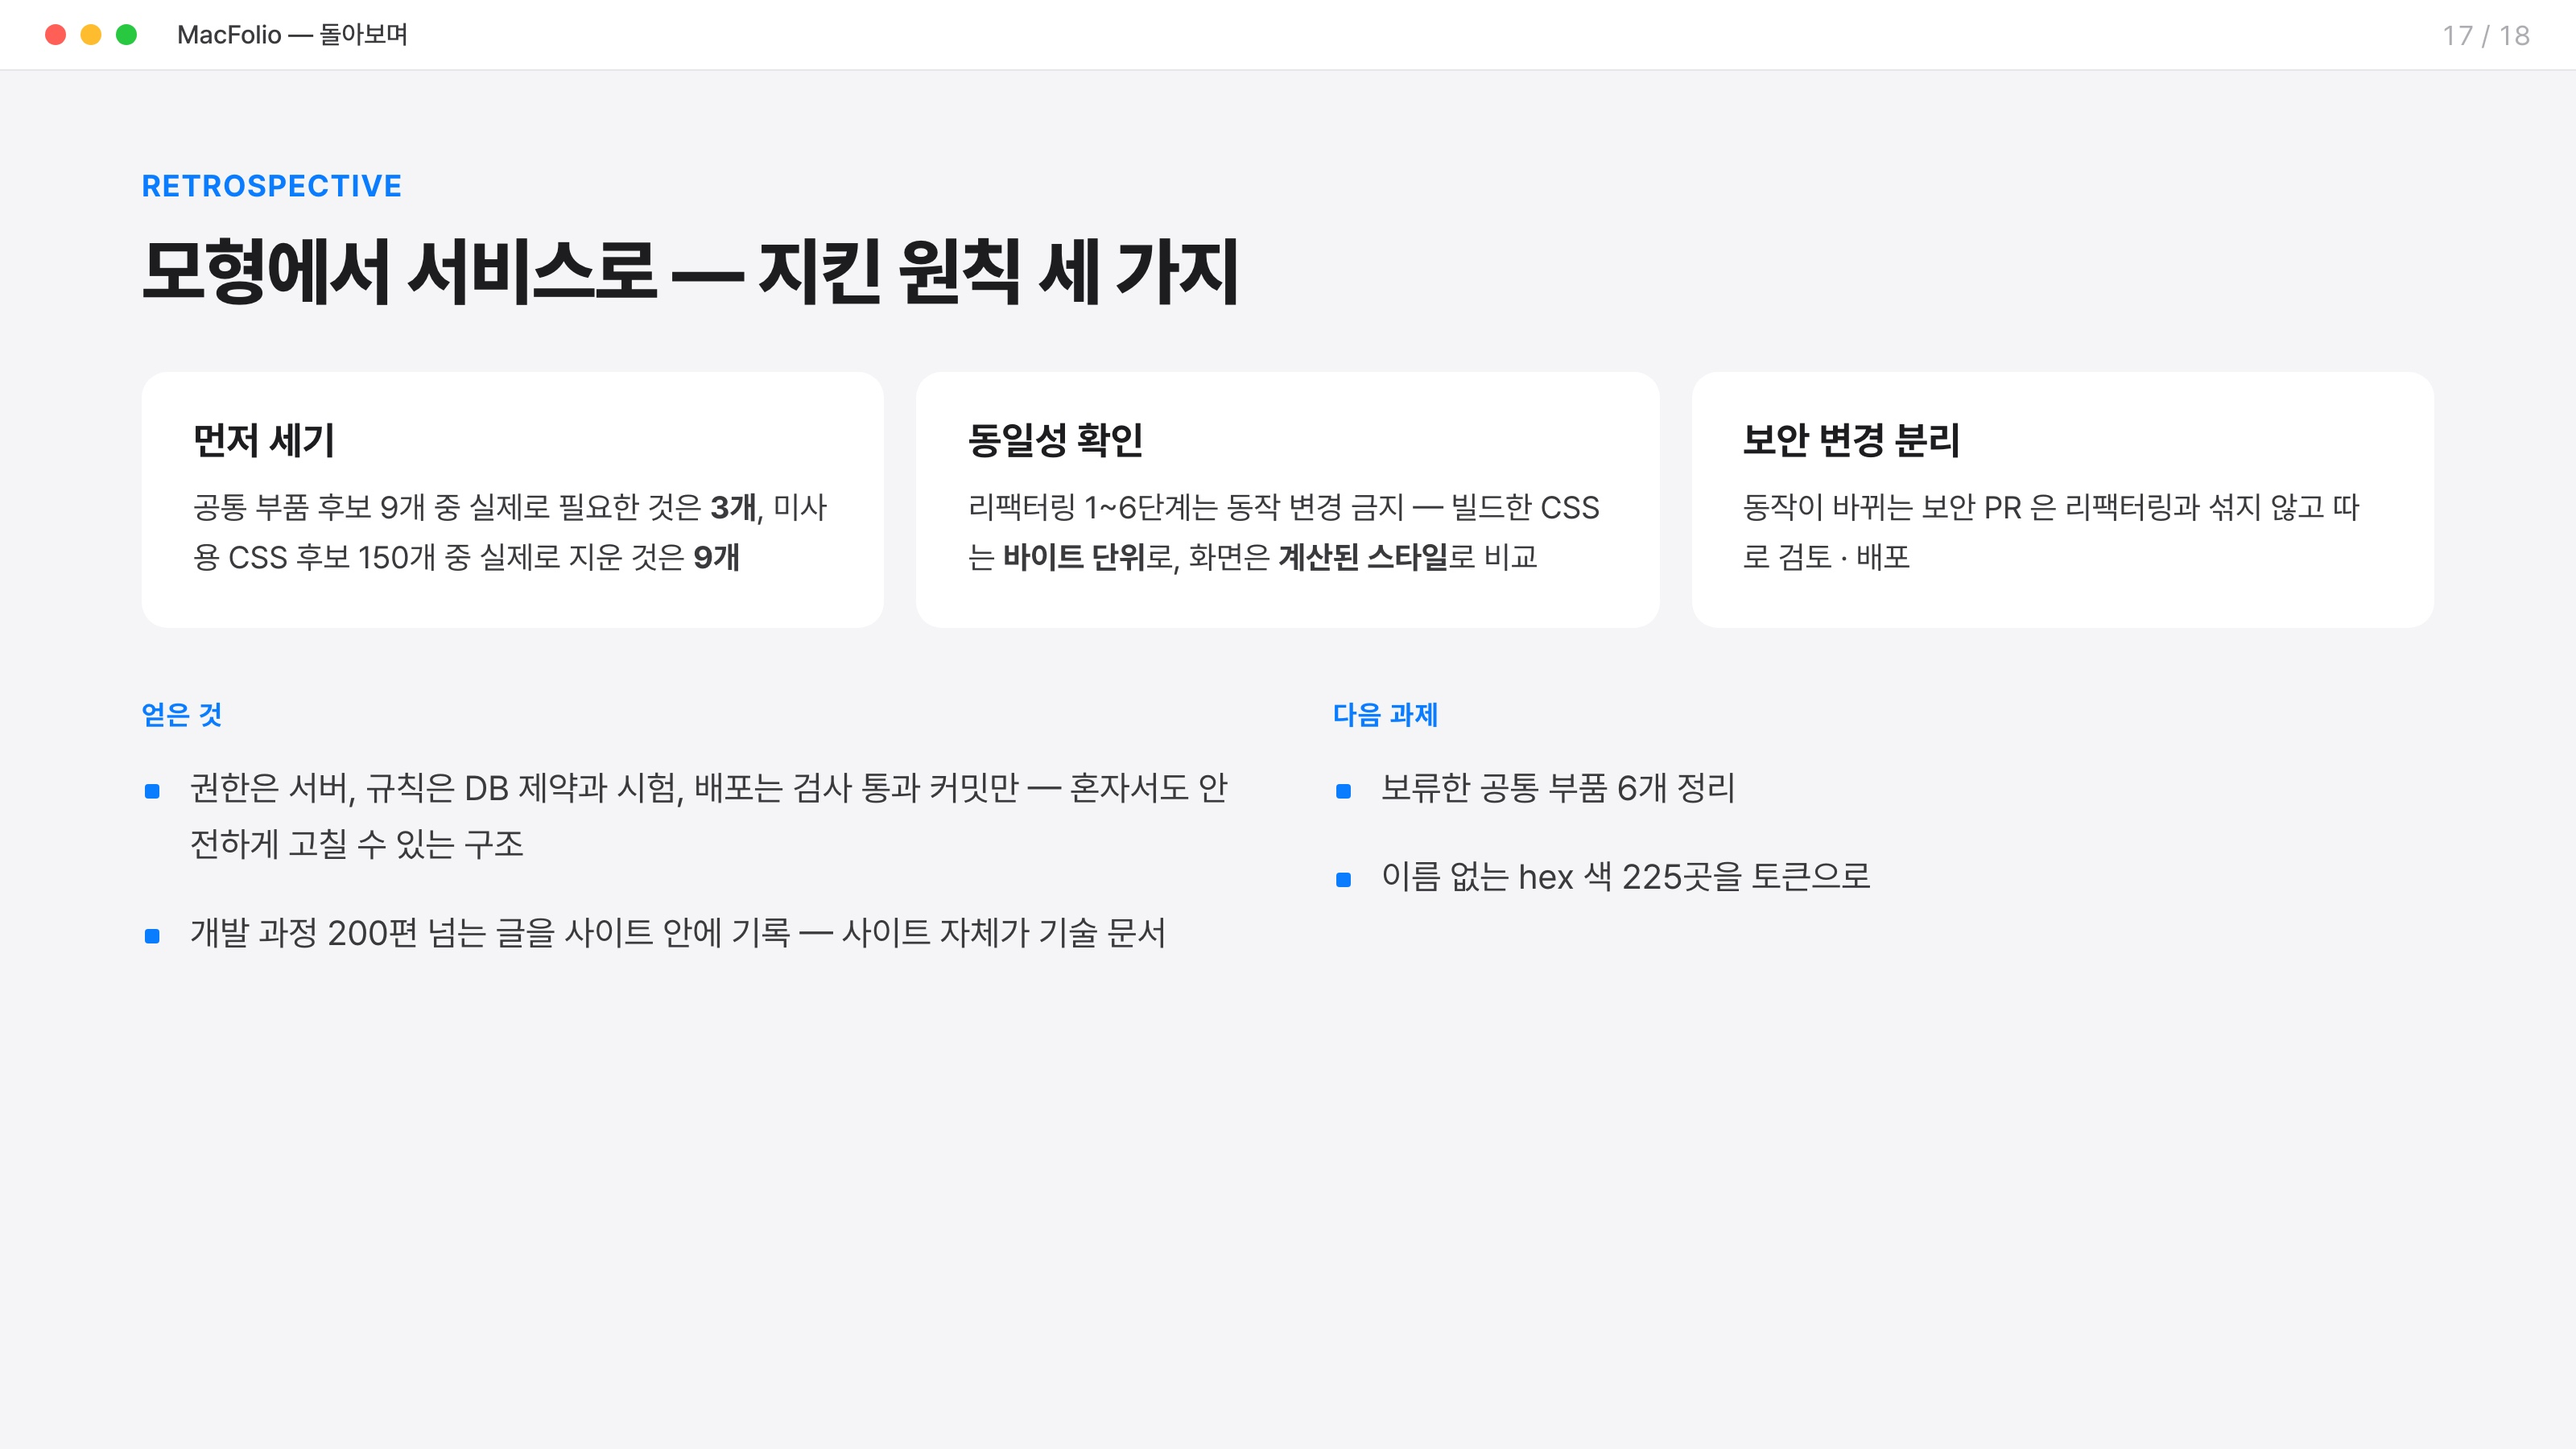
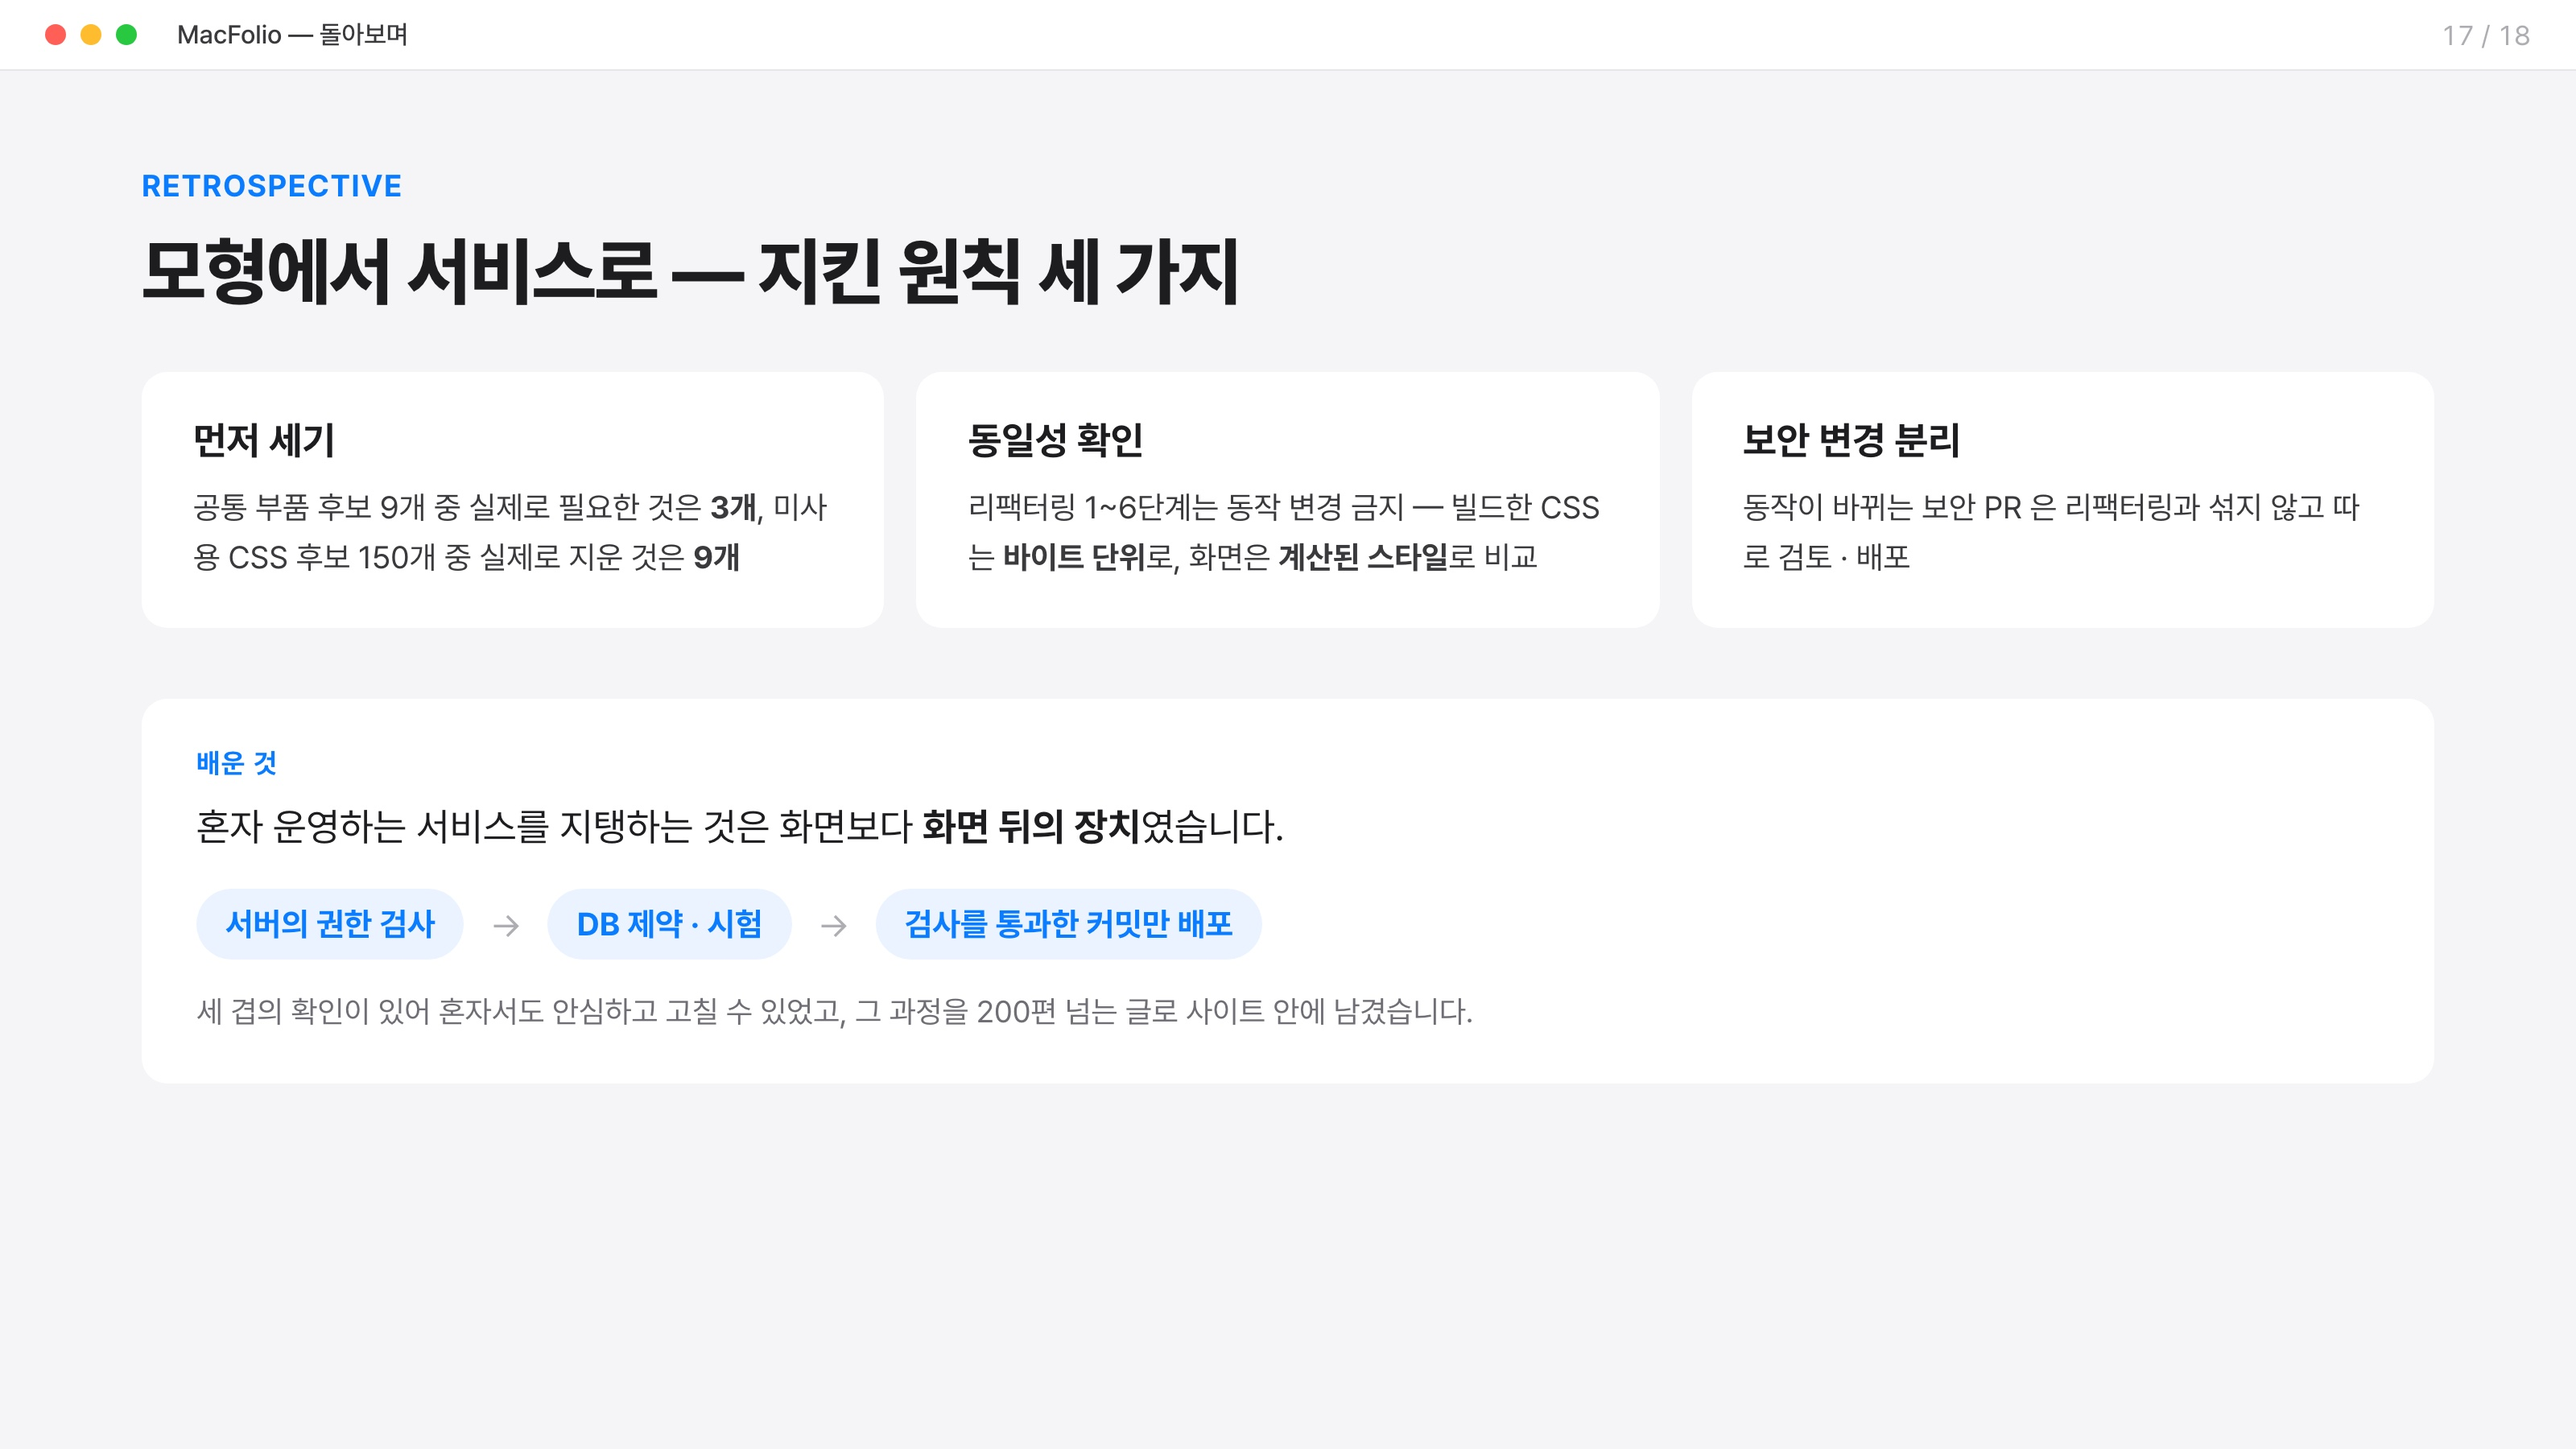
feat(works): MacFolio 발표 자료 마무리 두 장을 다시 짠다

diff --git a/content/works/macfolio.md b/content/works/macfolio.md
@@ -245,5 +245,3 @@ Playwright 는 데스크톱 Chrome, iPhone, Android 세 화면에서 가짜 API(
 보기만 하던 모형을 서비스로 바꾸는 일은 화면 뒤를 만드는 일이었습니다. 권한은 서버가 요청마다 확인하고, 데이터 규칙은 DB 제약과 시험이 한 번 더 확인하며, 배포는 검사를 통과한 커밋만 나가도록 구성했습니다.
 
 작업 원칙은 세 가지였습니다. 첫째, 고치기 전에 먼저 셌습니다. 공통 부품 후보 9개 중 실제로 필요한 것은 3개였고, 쓰지 않는 CSS 후보 150개 중 실제로 지운 것은 9개였습니다. 둘째, 리팩터링 뒤에는 결과가 같은지 빌드 결과와 계산된 스타일로 확인했습니다. 셋째, 동작이 바뀌는 보안 변경은 리팩터링과 섞지 않고 따로 냈습니다.
-
-남은 과제는 보류한 공통 부품 6개와 이름이 없는 hex 색 225곳 정리입니다.
